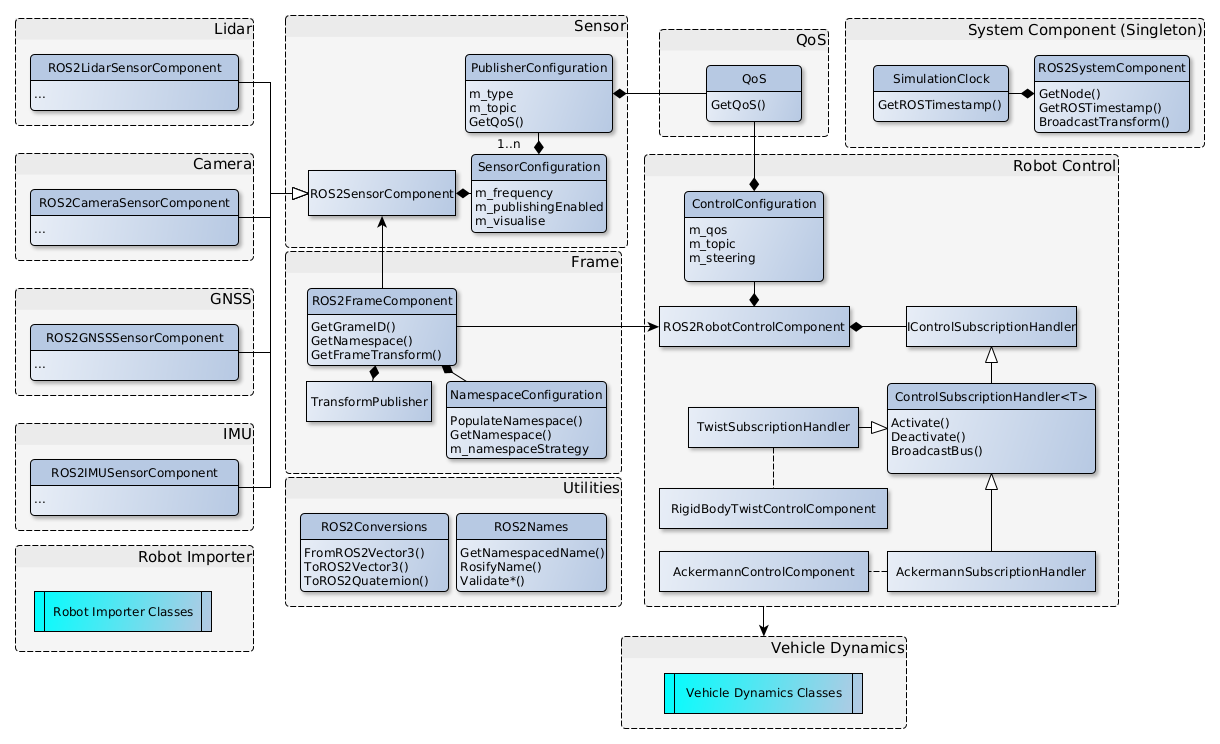
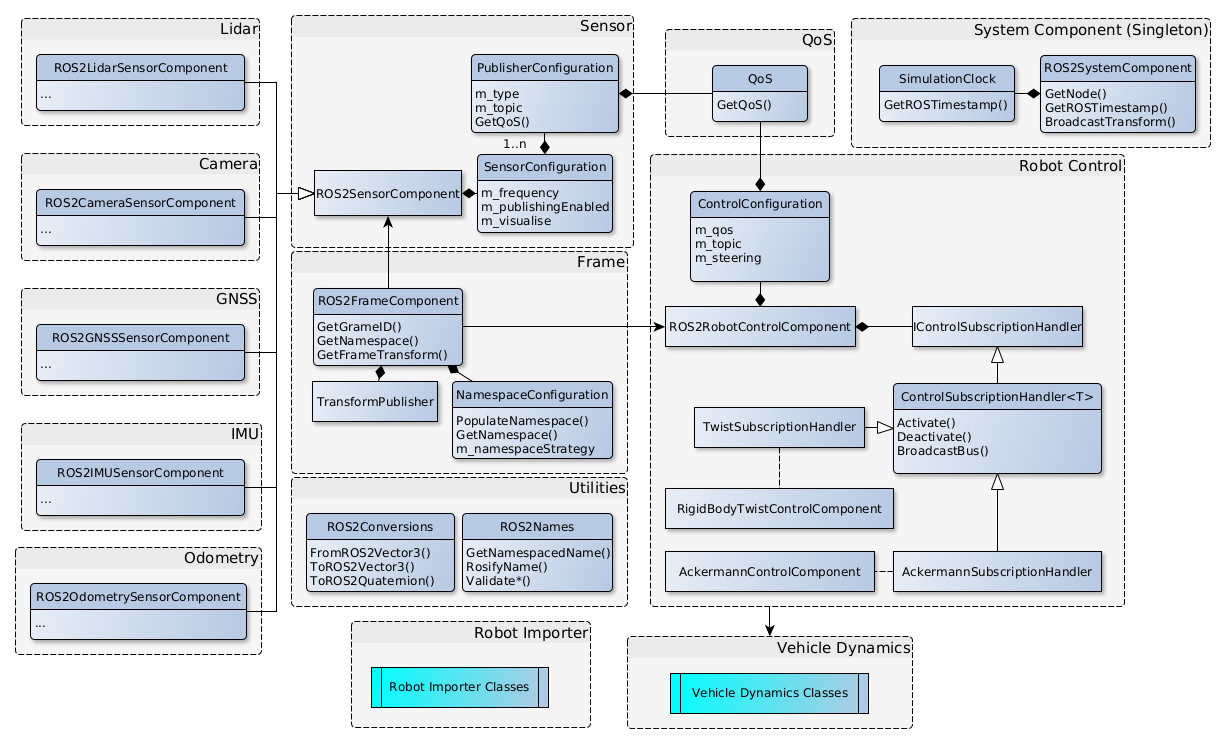
Odometry sensor (#261)
* Odometry sensor
* Updated documentation, added review changes

diff --git a/Code/Source/Odometry/ROS2OdometrySensorComponent.cpp b/Code/Source/Odometry/ROS2OdometrySensorComponent.cpp
@@ -1,0 +1,97 @@
+/*
+ * Copyright (c) Contributors to the Open 3D Engine Project.
+ * For complete copyright and license terms please see the LICENSE at the root of this distribution.
+ *
+ * SPDX-License-Identifier: Apache-2.0 OR MIT
+ *
+ */
+
+#include "ROS2OdometrySensorComponent.h"
+#include "ROS2/Frame/ROS2FrameComponent.h"
+#include "ROS2/ROS2Bus.h"
+#include "ROS2/Utilities/ROS2Conversions.h"
+#include "ROS2/Utilities/ROS2Names.h"
+#include <AzFramework/Physics/RigidBodyBus.h>
+
+namespace ROS2
+{
+    namespace Internal
+    {
+        const char* kOdometryMsgType = "nav_msgs::msg::Odometry";
+    }
+
+    void ROS2OdometrySensorComponent::Reflect(AZ::ReflectContext* context)
+    {
+        if (AZ::SerializeContext* serialize = azrtti_cast<AZ::SerializeContext*>(context))
+        {
+            serialize->Class<ROS2OdometrySensorComponent, ROS2SensorComponent>()->Version(1);
+
+            if (AZ::EditContext* ec = serialize->GetEditContext())
+            {
+                ec->Class<ROS2OdometrySensorComponent>("ROS2 Odometry Sensor", "Odometry sensor component")
+                    ->ClassElement(AZ::Edit::ClassElements::EditorData, "")
+                    ->Attribute(AZ::Edit::Attributes::Category, "ROS2")
+                    ->Attribute(AZ::Edit::Attributes::AppearsInAddComponentMenu, AZ_CRC("Game"));
+            }
+        }
+    }
+
+    ROS2OdometrySensorComponent::ROS2OdometrySensorComponent()
+    {
+        TopicConfiguration tc;
+        const AZStd::string type = Internal::kOdometryMsgType;
+        tc.m_type = type;
+        tc.m_topic = "odom";
+        m_sensorConfiguration.m_frequency = 10;
+        m_sensorConfiguration.m_publishersConfigurations.insert(AZStd::make_pair(type, tc));
+    }
+
+    void ROS2OdometrySensorComponent::FrequencyTick()
+    {
+        auto* ros2Frame = Utils::GetGameOrEditorComponent<ROS2FrameComponent>(GetEntity());
+        auto transform = ros2Frame->GetFrameTransform();
+
+        AZ::Vector3 linearVelocity;
+        Physics::RigidBodyRequestBus::EventResult(linearVelocity, m_entity->GetId(), &Physics::RigidBodyRequests::GetLinearVelocity);
+
+        linearVelocity = transform.GetInverse().TransformVector(linearVelocity);
+        AZ::Vector3 angularVelocity;
+        Physics::RigidBodyRequestBus::EventResult(angularVelocity, m_entity->GetId(), &Physics::RigidBodyRequests::GetAngularVelocity);
+        angularVelocity = transform.GetInverse().TransformVector(angularVelocity);
+        m_odometryMsg.twist.twist.linear = ROS2Conversions::ToROS2Vector3(linearVelocity);
+        m_odometryMsg.twist.twist.angular = ROS2Conversions::ToROS2Vector3(angularVelocity);
+
+        auto translation = transform.GetTranslation();
+        m_odometryMsg.pose.pose.position.x = translation.GetX();
+        m_odometryMsg.pose.pose.position.y = translation.GetY();
+        m_odometryMsg.pose.pose.position.z = translation.GetZ();
+
+        m_odometryPublisher->publish(m_odometryMsg);
+    }
+
+    void ROS2OdometrySensorComponent::GetRequiredServices(AZ::ComponentDescriptor::DependencyArrayType& required)
+    {
+        required.push_back(AZ_CRC_CE("PhysicsRigidBodyService"));
+    }
+
+    void ROS2OdometrySensorComponent::Activate()
+    {
+        // "odom" is globally fixed frame for all robots, no matter the namespace
+        m_odometryMsg.header.frame_id = ROS2Names::GetNamespacedName(GetNamespace(), "odom").c_str();
+        m_odometryMsg.child_frame_id = GetFrameID().c_str();
+
+        ROS2SensorComponent::Activate();
+        auto ros2Node = ROS2Interface::Get()->GetNode();
+        AZ_Assert(m_sensorConfiguration.m_publishersConfigurations.size() == 1, "Invalid configuration of publishers for Odometry sensor");
+
+        const auto publisherConfig = m_sensorConfiguration.m_publishersConfigurations[Internal::kOdometryMsgType];
+        const auto fullTopic = ROS2Names::GetNamespacedName(GetNamespace(), publisherConfig.m_topic);
+        m_odometryPublisher = ros2Node->create_publisher<nav_msgs::msg::Odometry>(fullTopic.data(), publisherConfig.GetQoS());
+    }
+
+    void ROS2OdometrySensorComponent::Deactivate()
+    {
+        ROS2SensorComponent::Deactivate();
+        m_odometryPublisher.reset();
+    }
+} // namespace ROS2

diff --git a/Code/Source/Odometry/ROS2OdometrySensorComponent.h b/Code/Source/Odometry/ROS2OdometrySensorComponent.h
@@ -1,0 +1,39 @@
+/*
+ * Copyright (c) Contributors to the Open 3D Engine Project.
+ * For complete copyright and license terms please see the LICENSE at the root of this distribution.
+ *
+ * SPDX-License-Identifier: Apache-2.0 OR MIT
+ *
+ */
+#pragma once
+
+#include "Sensor/ROS2SensorComponent.h"
+#include <AzCore/Math/Transform.h>
+#include <AzCore/Serialization/SerializeContext.h>
+#include <nav_msgs/msg/odometry.hpp>
+#include <rclcpp/publisher.hpp>
+
+namespace ROS2
+{
+    //! Odometry sensor Component.
+    //! It constructs and publishes an odometry message, which contains information about vehicle velocity and position in space.
+    //! This is a ground truth "sensor", which can be helpful for development and machine learning.
+    //! @see <a href="https://index.ros.org/p/nav_msgs/"> nav_msgs package. </a>
+    class ROS2OdometrySensorComponent : public ROS2SensorComponent
+    {
+    public:
+        AZ_COMPONENT(ROS2OdometrySensorComponent, "{61387448-63AA-4563-AF87-60C72B05B863}", ROS2SensorComponent);
+        ROS2OdometrySensorComponent();
+        ~ROS2OdometrySensorComponent() = default;
+        static void GetRequiredServices(AZ::ComponentDescriptor::DependencyArrayType& required);
+        static void Reflect(AZ::ReflectContext* context);
+        void Activate() override;
+        void Deactivate() override;
+
+    private:
+        void FrequencyTick() override;
+
+        std::shared_ptr<rclcpp::Publisher<nav_msgs::msg::Odometry>> m_odometryPublisher;
+        nav_msgs::msg::Odometry m_odometryMsg;
+    };
+} // namespace ROS2

diff --git a/Code/Source/ROS2ModuleInterface.h b/Code/Source/ROS2ModuleInterface.h
@@ -12,6 +12,7 @@
 #include "Imu/ROS2ImuSensorComponent.h"
 #include "Lidar/ROS2LidarSensorComponent.h"
 #include "ROS2/Frame/ROS2FrameComponent.h"
+#include "Odometry/ROS2OdometrySensorComponent.h"
 #include "ROS2/Manipulator/MotorizedJoint.h"
 #include "ROS2SystemComponent.h"
 #include "RobotControl/Controllers/AckermannController/AckermannControlComponent.h"
@@ -47,6 +48,7 @@ namespace ROS2
                   ROS2ImuSensorComponent::CreateDescriptor(),
                   ROS2GNSSSensorComponent::CreateDescriptor(),
                   ROS2LidarSensorComponent::CreateDescriptor(),
+                  ROS2OdometrySensorComponent::CreateDescriptor(),
                   ROS2FrameComponent::CreateDescriptor(),
                   ROS2RobotControlComponent::CreateDescriptor(),
                   ROS2CameraSensorComponent::CreateDescriptor(),

diff --git a/docs/guides/ros2-gem.md b/docs/guides/ros2-gem.md
@@ -16,10 +16,11 @@ You can browse Doxygen-generated documentation on [Gem's GitHub page](https://ro
   - ROS2FrameComponent
   - ROS2SensorComponent
 - __Sensors__
-  - ROS2CameraComponent
-  - ROS2GNSSComponent
-  - ROS2IMUComponent
-  - ROS2LidarComponent
+  - ROS2CameraSensorComponent
+  - ROS2GNSSSensorComponent
+  - ROS2IMUSensorComponent
+  - ROS2LidarSensorComponent
+  - ROS2OdometrySensorComponent
 - __Robot control__
   - ROS2RobotControlComponent
   - AckermannControlComponent
@@ -100,6 +101,10 @@ it to ROS 2 domain.
 
 If you intend to add your own sensor, it might be useful to look at how sensors already provided within the Gem are
 implemented.
+
+Sensors can be fall into one of two categories:
+- sensors which replicate real devices to some degree of realism.
+- ground truth "sensors", which can be useful for development and machine learning.
 
 ### Robot Control
 

diff --git a/README.md b/README.md
@@ -27,7 +27,7 @@ If a `desktop` installation of ROS 2 distro was selected, everything else should
 Use this helpful command to install:
 
 ```
-sudo apt install ros-${ROS_DISTRO}-ackermann-msgs ros-${ROS_DISTRO}-control-toolbox ros-${ROS_DISTRO}-gazebo-msgs
+sudo apt install ros-${ROS_DISTRO}-ackermann-msgs ros-${ROS_DISTRO}-control-toolbox ros-${ROS_DISTRO}-nav-msgs ros-${ROS_DISTRO}-gazebo-msgs
 ```
 
 ## Features
